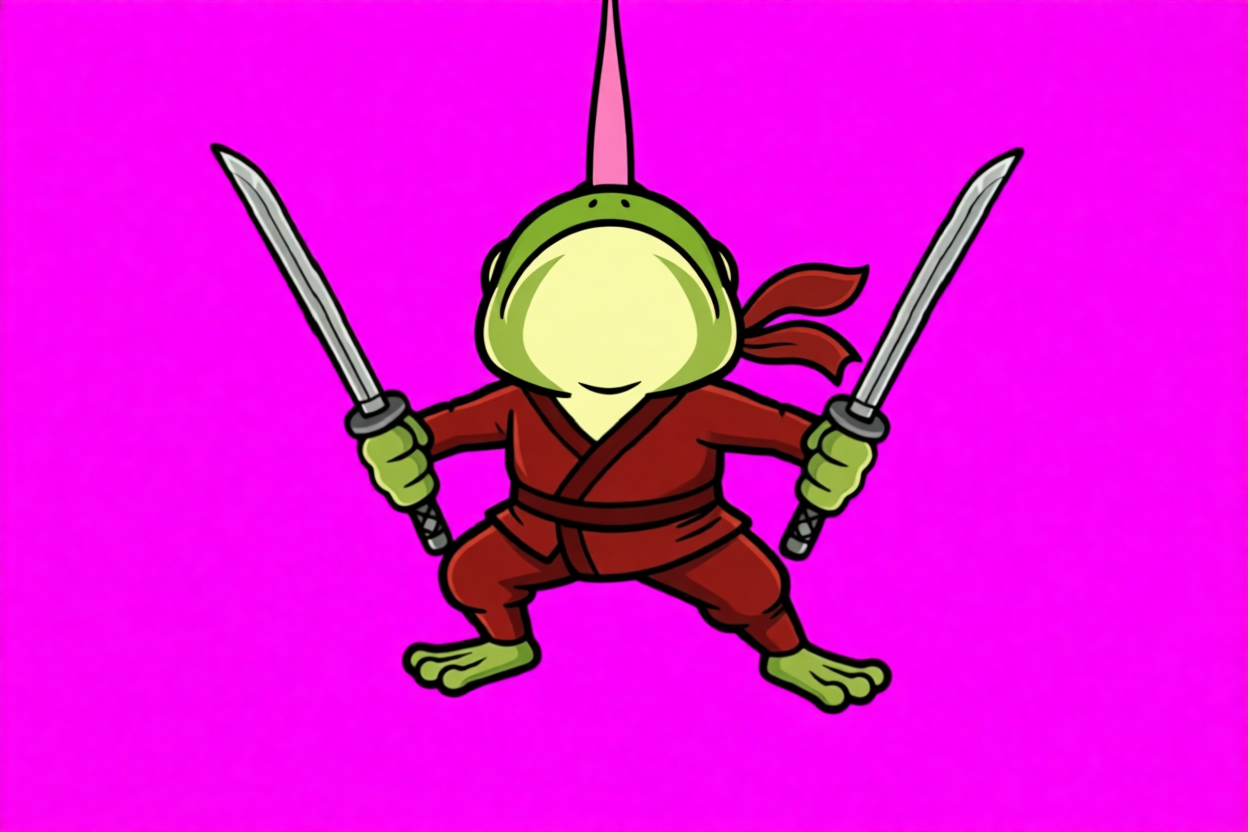
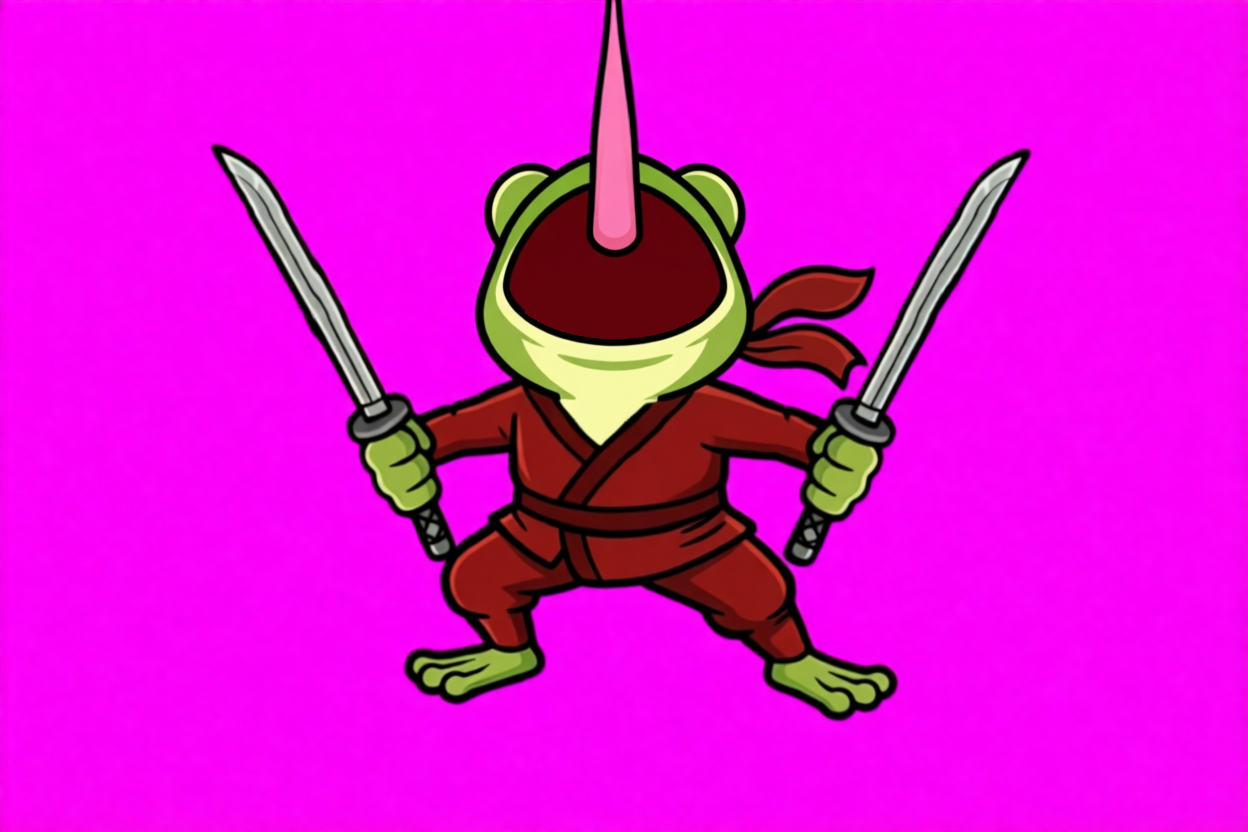
Frog Ninja: the tongue straight up comes out of the frog's open mouth (Marek's 'tongue top A', its second tongue painted out)

Changed region(s): [[0.25, 0.0, 0.8438, 0.875], [0.1562, 0.1562, 0.2188, 0.25]]

diff --git a/static/js/views/frog-game.js b/static/js/views/frog-game.js
@@ -306,7 +306,7 @@ const FALL_ART = { url: '/img/game/frog/fall.99b86249a9.webp', size: [528, 707],
 // tongue's way, a stub of tongue painted; the game's tongue goes on from root (w wide). up: only the throat seen.
 // TONGUE_ART:begin (written by design/frog/tools/art_build_tongue.py: do not edit by hand)
 const TONGUE_ART = {
-    'up': { url: '/img/game/frog/tongue-up.f386ea1479.webp', size: [811, 713], mid: 412, feet: 704, headW: 249, front: true, root: [398, 180], w: 35, dir: [0, -1] },
+    'up': { url: '/img/game/frog/tongue-up.89dbf60c4e.webp', size: [816, 719], mid: 411, feet: 704, headW: 249, front: true, root: [401, 180], w: 37, dir: [0, -1] },
     'down': { url: '/img/game/frog/tongue-down.3440835897.webp', size: [811, 610], mid: 412, feet: 592, headW: 249, front: true, root: [396, 578], w: 34, dir: [0, 1] },
     'down-left': { url: '/img/game/frog/tongue-down-left.fbbcc6113c.webp', size: [806, 590], mid: 410, feet: 583, headW: 249, front: true, root: [352, 264], w: 35, dir: [-0.707, 0.707] },
     'up-left': { url: '/img/game/frog/tongue-up-left.83ca64de94.webp', size: [806, 564], mid: 410, feet: 557, headW: 249, front: true, root: [371, 190], w: 35, dir: [-0.707, -0.707] },

diff --git a/design/frog/tools/art_build_tongue.py b/design/frog/tools/art_build_tongue.py
@@ -11,7 +11,8 @@ the logo's colours (color_guardian.fix_image), cropped. root: where the game's t
 picture's px (a little inside the stub's end, so the drawn tongue covers its tip); w: the stub's width there.
 Writes static/img/game/frog/tongue-<dir>.<hash>.webp and the TONGUE_ART table in frog-game.js.
 
-Directions so far: up (head thrown back, only the throat seen), down (chin tucked, tongue down in front of the chest),
+Directions so far: up (head thrown back, seen from below with its mouth wide open, the tongue rising out of it: Marek 2026-11-25
+"fix the tongue origin"; the second tongue lying in the mouth painted out), down (chin tucked, tongue down in front of the chest),
 down-left (Marek's pick 'tongue bottom-left B', 2026-11-25: the standing pick's head edited as a 2x close-up, glued back on its
 headless body at 0.85 ("smaller head"), moved 54 px left so it sits over the body like the standing frog's head ("too much to
 the side"); drawn looking left, mirrored for down-right), up-left ('tongue top-left A', the bottom-left head turned to look up-left,
